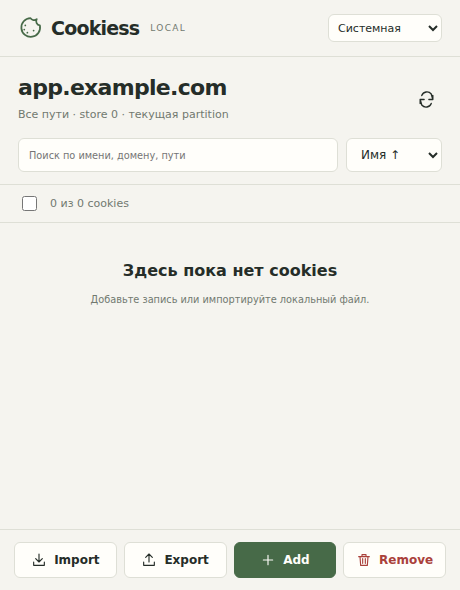
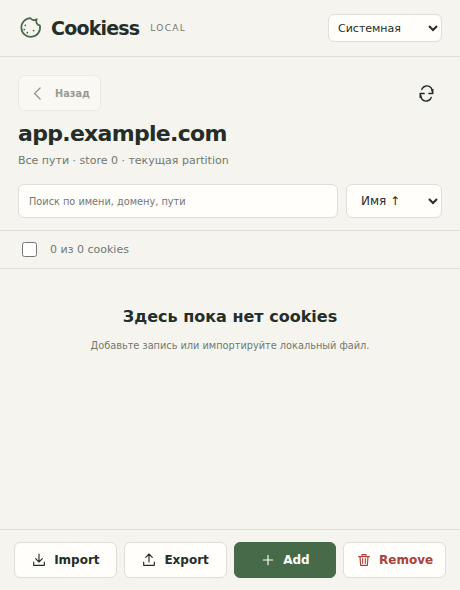
Preserve action navigation on refresh and test install ZIPs in CI

diff --git a/src/main.ts b/src/main.ts
@@ -1,6 +1,6 @@
 import './style.css';
 import { CookieApi, applyImport, previewImport, type ImportItem } from './api';
-import { accessPattern, identity, validateCookie, type Cookie, type SiteContext } from './domain';
+import { accessPattern, identity, partitionIdentity, validateCookie, type Cookie, type SiteContext } from './domain';
 import { parse, serialize, type Format } from './formats';
 const api = new CookieApi();
 const app = document.querySelector<HTMLDivElement>('#app')!;
@@ -54,6 +54,7 @@ let sort = 'name';
 let allowed = false;
 let ready = false;
 let loadVersion = 0;
+let refreshPanel: (() => void) | undefined;
 const brand = el('header', 'brand');
 const logo = el('div', 'wordmark');
 logo.append(icon('cookie'), el('strong', '', 'Cookiess'), el('span', 'edition', 'LOCAL'));
@@ -88,13 +89,22 @@ siteText.append(host, contextLabel);
 const refresh = button(
   '',
   async () => {
-    if (leave()) await initialize();
+    await refreshCurrentView();
   },
   'icon-button',
   'refresh',
 );
 refresh.setAttribute('aria-label', 'Обновить сайт и cookies');
-site.append(siteText, refresh);
+const back = button('Назад', async () => {
+  if (!leave()) return;
+  notify('');
+  if (!ready || !allowed) await initialize();
+  else renderList();
+}, 'back-button', 'back');
+back.setAttribute('aria-label', 'Назад к списку');
+const navigation = el('div', 'site-navigation');
+navigation.append(back, refresh);
+site.append(navigation, siteText);
 const status = el('div', 'status');
 status.setAttribute('role', 'status');
 status.setAttribute('aria-live', 'polite');
@@ -118,6 +128,7 @@ function lock(value: boolean) {
   app.classList.toggle('busy', value);
   actionButtons.forEach((b) => (b.disabled = value || !allowed || !ready));
   refresh.disabled = value;
+  back.disabled = value || screen === 'list';
 }
 async function run(action: () => void | Promise<void>) {
   if (busy) return;
@@ -208,24 +219,33 @@ async function reload() {
   selected = new Set([...selected].filter((id) => cookies.some((c) => identity(c) === id)));
   if (screen === 'list') renderList();
 }
+async function refreshCurrentView() {
+  const next = await api.context();
+  if (context && next.tabId === context.tabId && next.host === context.host &&
+      next.storeId === context.storeId && new URL(next.url).origin === new URL(context.url).origin &&
+      await api.hasAccess(next)) {
+    // Keep the current form and its dirty draft when the site context is unchanged.
+    const key = next.partitionKey;
+    if (partitionIdentity(key) === partitionIdentity(context.partitionKey)) {
+      context = { ...next, partitionKey: key };
+      allowed = true;
+      ready = true;
+      await reload();
+      refreshPanel?.();
+      notify('Cookies обновлены. Текущая форма сохранена.', 'success');
+      return;
+    }
+  }
+  if (leave()) await initialize();
+}
 function backHeader(title: string) {
+  refreshPanel = undefined;
   const bar = el('div', 'panel-title');
-  const back = button(
-    'Назад',
-    () => {
-      if (leave()) {
-        screen = 'list';
-        renderList();
-      }
-    },
-    'back-button',
-    'back',
-  );
-  back.setAttribute('aria-label', 'Назад к списку');
-  bar.append(back, el('h2', '', title));
+  bar.append(el('h2', '', title));
   content.append(bar);
 }
 function renderList() {
+  refreshPanel = undefined;
   screen = 'list';
   dirty = false;
   content.replaceChildren();
@@ -562,6 +582,7 @@ function openRemove() {
   );
   all.disabled = !cookies.length;
   panel.append(removeSelected, all);
+  refreshPanel = openRemove;
   content.append(panel);
 }
 async function deleteMany(items: Cookie[]) {
@@ -674,6 +695,7 @@ function openImport() {
     invalidate();
   };
   policy.onchange = invalidate;
+  refreshPanel = invalidate;
   const inspect = button('Предпросмотр', async () => {
     notify('');
     await api.assertContext(context!);
@@ -775,6 +797,7 @@ function openExport() {
   }
   scope.onchange = refreshOutput;
   format.onchange = refreshOutput;
+  refreshPanel = refreshOutput;
   refreshOutput();
   panel.append(
     button(

diff --git a/src/style.css b/src/style.css
@@ -195,11 +195,16 @@ h2 {
 }
 .site {
   display: flex;
-  justify-content: space-between;
-  align-items: center;
+  flex-direction: column;
+  align-items: stretch;
   gap: 10px;
   padding: 18px 18px 15px;
   flex-shrink: 0;
+}
+.site-navigation {
+  display: flex;
+  align-items: center;
+  justify-content: space-between;
 }
 .site-text {
   min-width: 0;

diff --git a/eslint.config.js b/eslint.config.js
@@ -1,7 +1,7 @@
 import js from '@eslint/js';
 import tseslint from 'typescript-eslint';
 export default tseslint.config(
-  { ignores: ['dist/**', 'node_modules/**', 'scripts/**'] },
+  { ignores: ['dist/**', 'node_modules/**', 'scripts/**', 'test-output/**'] },
   js.configs.recommended,
   ...tseslint.configs.recommended,
   {

diff --git a/scripts/unpack-test-package.py b/scripts/unpack-test-package.py
@@ -1,0 +1,16 @@
+"""Extract the verified install artifact for real extension browser checks."""
+import json
+import shutil
+from pathlib import Path
+from zipfile import ZipFile
+
+version = json.loads(Path('package.json').read_text())['version']
+root = Path('test-output/unpacked')
+shutil.rmtree(root, ignore_errors=True)
+root.mkdir(parents=True)
+with ZipFile(f'artifacts/cookiess-{version}.zip') as archive:
+  for name in archive.namelist():
+    target = (root / name).resolve()
+    assert target.is_relative_to(root.resolve()), 'Archive path escapes test directory'
+  archive.extractall(root)
+print(f'Extracted install ZIP for browser checks: {root.resolve()}')

diff --git a/VERIFICATION.md b/VERIFICATION.md
@@ -90,3 +90,15 @@ Typecheck, lint, 20 unit tests, build/package and exact ZIP/manifest resource va
 ## Rolling GitHub release automation
 
 Workflow now updates the `latest-build` prerelease on successful main pushes or manual main runs, only after every verify matrix job succeeds. The release job alone receives contents:write and downloads the verified Ubuntu artifact. It validates the archive/version/resources, publishes a stable download filename plus SHA256SUMS and build-info (source commit/version/CI URL), and only moves the reserved latest-build tag. Versioned releases stay separate. PRs do not publish. Main workflows are not cancelled during publication; a superseded main commit is skipped before release mutation. YAML parsing, shell syntax and job dependency/permission gates were checked locally. Creation/update are verified through actual Actions runs and the downloaded release assets.
+
+## Install-ZIP browser gate
+
+CI now downloads the verified Ubuntu install artifact and extracts it into test-output/unpacked. Linux runs the existing 21 native action-popup checks against that folder; Windows runs a native popup smoke checking extension loading, packaged JS/CSS, the real permission screen and close/reopen. Each uses a new disposable synthetic profile. The release job depends on both build and browser matrices, so failures block rolling publication. Fresh browser evidence is uploaded separately, and prior checkout images are removed before tests.
+
+The portable smoke and all 21 install-ZIP checks were executed locally in Linux Chrome for Testing 154.0.8037.92. Windows execution is verified through the actual CI browser job, rather than inferred from build success. The reported missing-file symptom can also arise from duplicate unpacked installations when the older installed path has been deleted; this cannot be fixed by changing a correctly packaged popup. User profile metadata inspection, where authorized, is read-only; no cookie/password/history access is involved.
+
+## Navigation and refresh — 1.0.2
+
+Back and Refresh now share a persistent row above the site hostname. Back remains visible on the list (disabled when there is no internal destination) and active on action screens. Refresh on the same tab/origin/store/partition rereads cookies and retains the action and dirty editor/import text; export refreshes its output and import invalidates the old preview. A changed context still requires dirty-draft confirmation before resetting and preserves mutation guards.
+
+Typecheck, lint, 20 unit tests, build/ZIP checks and all 21 real native-popup tests passed locally against the extracted 1.0.2 install ZIP. The navigation regression asserts alignment above the hostname, retained action and enabled Back after Refresh, retained dirty Add draft, and cancelled/confirmed Back. Screenshot: [editor-navigation.png](screenshots/editor-navigation.png). CI adds the same Linux full suite and a Windows native-popup smoke as publication gates.

diff --git a/store/LISTING.md b/store/LISTING.md
@@ -1,7 +1,7 @@
 # Chrome Web Store listing — Russian
 
 Name: Cookiess
-Version: 1.0.1
+Version: 1.0.2
 Language: Russian (ru)
 Proposed category: Developer Tools (confirm the available dashboard category before submission).
 
@@ -32,7 +32,7 @@ Project: https://github.com/smallp80380/cookiess
 
 ## Uploads
 
-Package: release `v1.0.1`, `cookiess-1.0.1.zip`.
+Package: release `v1.0.2`, `cookiess-1.0.2.zip`.
 Screenshots, in order: `assets/01-list.png`, `02-editor.png`, `03-import.png`, `04-dark.png` (1280×800).
 Small promotional tile: `assets/promo-440x280.png` (440×280).
 Icon: `../public/icons/128.png` (128×128).

diff --git a/CHROMEWEBSTORE.md b/CHROMEWEBSTORE.md
@@ -1,7 +1,7 @@
 # Chrome Web Store preparation (not published)
 
 ## Single purpose
-Manage cookies applicable to the active website: view, create, edit, delete, and locally import/export them. Product name: Cookiess. Version: 1.0.1. Minimum Chrome: 132. Main language: Russian.
+Manage cookies applicable to the active website: view, create, edit, delete, and locally import/export them. Product name: Cookiess. Version: 1.0.2. Minimum Chrome: 132. Main language: Russian.
 
 ## Proposed listing
 
